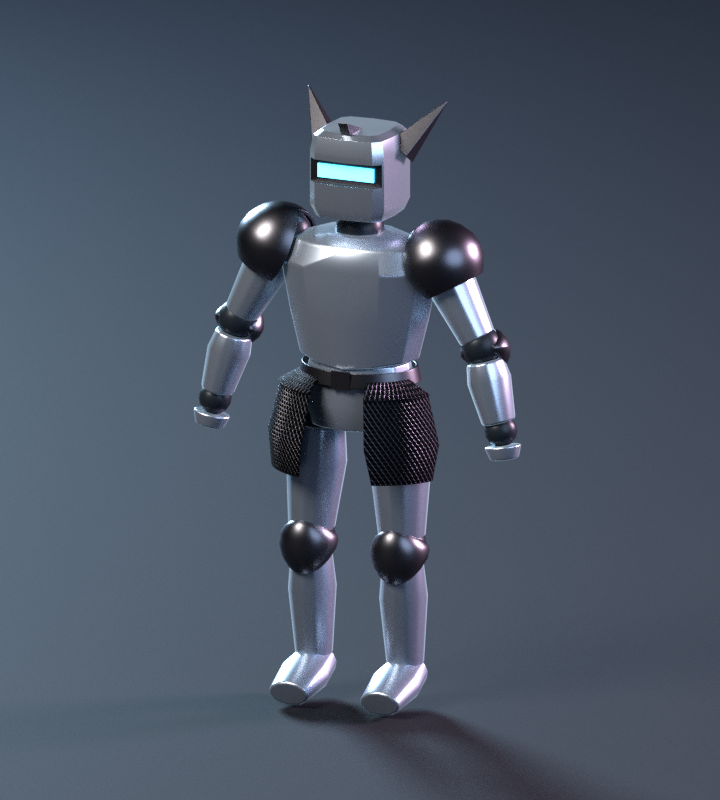
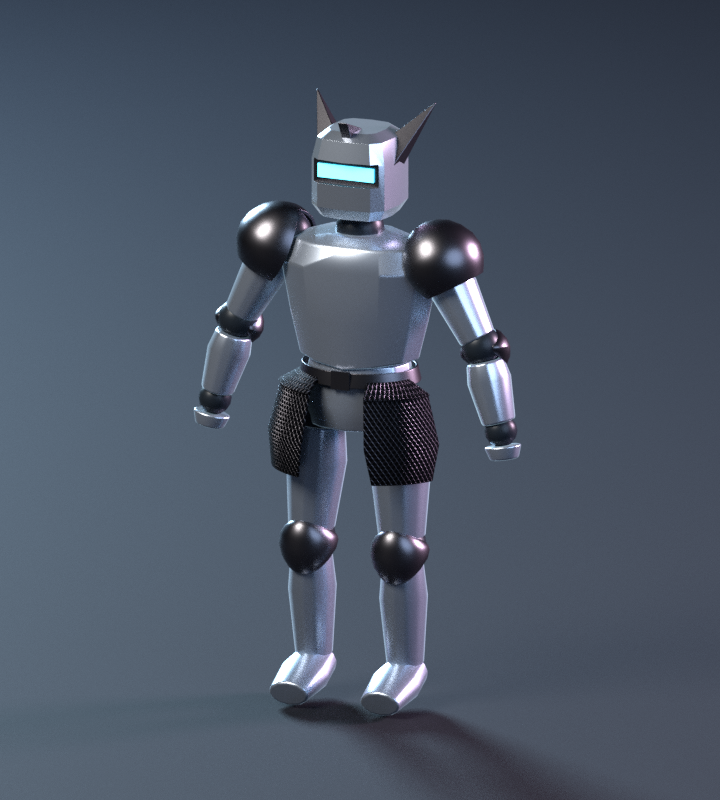
feat: rounder helmet corners with horns seated inside
Round the helmet's vertical corners and top and bottom edges more
(superellipse exponent 0.575). Shrink the horns to 1.08 times the heroic
size, move them in to 90% and up 1 cm, and extend each 6 cm back along
its axis so its square root stays inside the rounded corners while the
visible part keeps its tip and taper.

Changed region(s): [[0.4278, 0.0938, 0.6111, 0.3125]]

diff --git a/dev-samples/3d-stage1/rigged-armor/build.py b/dev-samples/3d-stage1/rigged-armor/build.py
@@ -337,15 +337,23 @@ def helmet_crest_and_horns(rig, mat):
     crest = bpy.data.objects.new('Helmet crest', mesh)
     bpy.context.collection.objects.link(crest)
     attach(crest, rig, 'head', mat).modifiers['Forged edge'].width = .003
-    # Four-sided horns from the sides of the helm, out, back and up; enlarged
-    # from their roots.
-    horn_scale = 1.2
+    # Four-sided horns from the sides of the helm, out, back and up: 1.08 times
+    # the heroic size, moved in to 90% and up 1 cm. The rounded helmet
+    # corners fall away under their square roots, so each horn is extended
+    # 6 cm back along its own axis into the helmet; the visible part keeps
+    # its tip and taper.
+    horn_scale, horn_spread, horn_lift, horn_sink = 1.2 * .9, .9, .01, .06
+    radius = .055 * .8 * horn_scale
     for side, sign in (('L', 1), ('R', -1)):
-        start = heroic(sign * .15, 0, .90)
-        delta = (heroic(sign * .27, .11, 1.06) - start) * horn_scale
+        lift = Vector((0, 0, horn_lift))
+        start = heroic(sign * .15 * horn_spread, 0, .90) + lift
+        delta = (heroic(sign * .27 * horn_spread, .11, 1.06) + lift - start) * horn_scale
         end = start + delta
-        bpy.ops.mesh.primitive_cone_add(vertices=4, radius1=.055 * .8 * horn_scale, radius2=0,
-                                        depth=delta.length, location=(start + end) / 2)
+        start = start - delta.normalized() * horn_sink
+        depth = (end - start).length
+        bpy.ops.mesh.primitive_cone_add(vertices=4, radius1=radius * depth / delta.length,
+                                        radius2=0, depth=depth, location=(start + end) / 2)
+        delta = end - start
         horn = bpy.context.object
         horn.name = f'Helmet horn {side}'
         horn.rotation_euler = delta.to_track_quat('Z', 'Y').to_euler()
@@ -459,8 +467,8 @@ def build_armor(rig):
     breastplate.data.update()
     joint(rig, 'neck', .075, dark)
     # A rounded box like the heroic player's helm: flat top, upright sides.
-    helmet_rings = [(-.035,.115,.115),(.0,.13,.13),
-                    (.17,.13,.13),(.215,.12,.12),(.23,.10,.10)]
+    helmet_rings = [(-.035,.1075,.1075),(.0,.13,.13),
+                    (.14,.13,.13),(.2075,.115,.115),(.23,.085,.085)]
     helmet = plate(rig, 'head', 'Helmet', helmet_rings, helm)
     matrix = rig.data.bones['head'].matrix_local
     for row, (along, width, depth) in enumerate(helmet_rings):
@@ -468,8 +476,8 @@ def build_armor(rig):
             angle = i * 2 * math.pi / 12
             x, z = math.sin(angle), math.cos(angle)
             helmet.data.vertices[row * 12 + i].co = matrix @ Vector((
-                width * math.copysign(abs(x) ** .45, x), along,
-                depth * math.copysign(abs(z) ** .45, z)))
+                width * math.copysign(abs(x) ** .575, x), along,
+                depth * math.copysign(abs(z) ** .575, z)))
     helmet.data.update()
     # Eye slot: a horizontal bar subtracted from the helmet front. It runs a
     # little past the helmet's width, so it cuts into the rounded front

diff --git a/dev-samples/3d-stage1/rigged-armor/README.md b/dev-samples/3d-stage1/rigged-armor/README.md
@@ -31,14 +31,17 @@ Rotation で回転させる。回転はボーンのローカル座標。
 肩当ては胸側の側面を切り欠いた中空の外装で、腕の付け根が入る余地を設けている。
 肘当てと膝当ても中空の殻で、曲がる軸の内側（肘は前、膝は後ろ）が開いている。
 開口部に向かって帯の幅が楕円状に狭まり、端は脚や腕に寄せて丸く閉じる。
-兜は heroic の主人公と同じく、天面が平らで側面が立った角の丸い箱形。
+兜は heroic の主人公と同じく、天面が平らで側面が立った角の丸い箱形。縦の角と上下の縁は
+大きめに丸めている（断面の超楕円の指数0.575）。
 覗き窓は兜から横長の棒（`Eye slot cutter`、レンダリングでは非表示）をブーリアンで
 引いた溝で、横から見ても前の角に切り込みが見える。溝の内側は黒い鉄で、奥の
 一回り小さい水色に光る窓の周りが黒い縁になる。棒を動かすと溝の位置や大きさを変えられる。
 兜には heroic の主人公と同じ、黒い鉄のとさかと角を付けている（`head` に固定）。
 とさかは薄い三角の板で、頭頂から覗き窓の先へ前上がりに反る。角は四角錐で、
 兜の側面から外・後ろ・上へ伸びる。heroic の頭の寸法を0.8倍して合わせたうえで、
-とさかは土台の中心を基準にさらに0.8倍、角は付け根を基準に1.2倍にしている。
+とさかは土台の中心を基準にさらに0.8倍、角は1.08倍にして左右を90%に寄せ、1cm上げている。
+丸めた兜の角は角の四角い付け根の下で内側へ逃げるため、角を軸に沿って兜の中へ6cm延ばし、
+見える部分の形を変えずに付け根を埋めている。
 胸甲は腹部まで伸ばし、正面の下端は中央が少し下がる浅いV字にしている。
 腰甲の上部、胸甲の裾の下に黒い鉄の平たいベルト（幅約4.5cm）を巻いている。
 上ほど細い腰甲の傾きに沿って密着し、正面に黒い鉄の四角い板のバックルを付けている。
